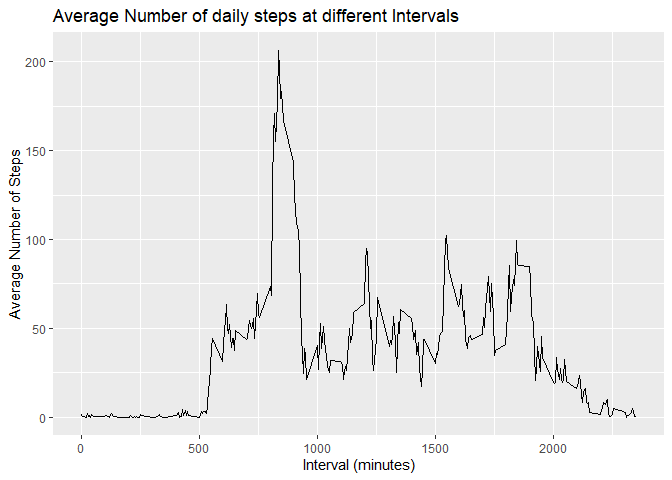
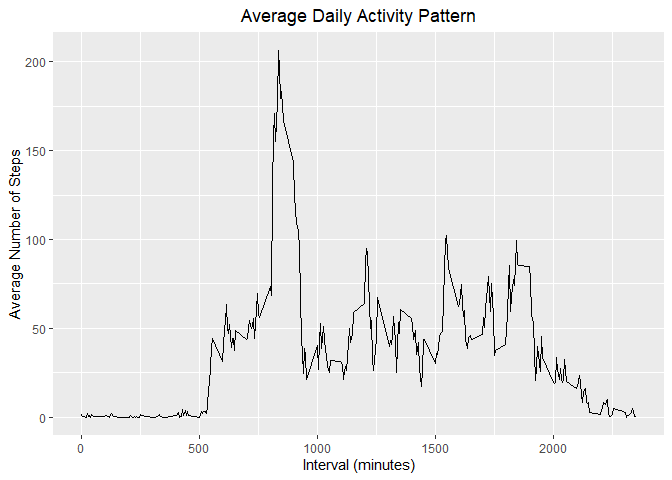
Finished Project

Changed region(s): [[0.0625, 0.0, 0.7188, 0.0625]]

diff --git a/PA1_template.html b/PA1_template.html
@@ -420,10 +420,11 @@ head(meanStepsInterval)</code></pre>
 library(&quot;ggplot2&quot;)
 ggplot(data = meanStepsInterval, aes(x = interval, y = steps)) +
         geom_line() +
-        ggtitle(&quot;Average Number of daily steps at different Intervals&quot;) +
+        ggtitle(&quot;Average Daily Activity Pattern&quot;) +
+        theme(plot.title = element_text(hjust = 0.5)) +
         xlab(&quot;Interval (minutes)&quot;) + 
         ylab(&quot;Average Number of Steps&quot;)</code></pre>
[2 lines of base64/hex data omitted]
 <pre class="r"><code>max_interval &lt;- meanStepsInterval[which.max(meanStepsInterval$steps),]
 max_interval</code></pre>
 <pre><code>##     interval    steps
@@ -437,12 +438,93 @@ max_interval</code></pre>
 <pre class="r"><code># 1- Total Number of Missing values
 sum(is.na(activity))</code></pre>
 <pre><code>## [1] 2304</code></pre>
+<div id="total-number-of-rows-with-nas-2304-rows" class="section level5">
+<h5>Total Number of Rows with NAs = <strong>2304 rows</strong></h5>
+<pre class="r"><code># 2- Filling Missing Values with mean steps in each interval
+# 3- Create a new dataset with filled NA values
+newData &lt;- activity
+for(row in 1: nrow(activity)) {
+        if(is.na(newData[row, 1])==TRUE) {
+                newData[row, 1] &lt;- meanStepsInterval[meanStepsInterval$interval %in%                                              newData[row, 3], 2]
+        }
+}
+
+head(newData)</code></pre>
+<pre><code>##       steps       date interval
+## 1 1.7169811 2012-10-01        0
+## 2 0.3396226 2012-10-01        5
+## 3 0.1320755 2012-10-01       10
+## 4 0.1509434 2012-10-01       15
+## 5 0.0754717 2012-10-01       20
+## 6 2.0943396 2012-10-01       25</code></pre>
+<pre class="r"><code># 4- Histogram Plot
+totalSteps &lt;- aggregate(steps ~ date, newData, sum)
+head(totalSteps)</code></pre>
+<pre><code>##         date    steps
+## 1 2012-10-01 10766.19
+## 2 2012-10-02   126.00
+## 3 2012-10-03 11352.00
+## 4 2012-10-04 12116.00
+## 5 2012-10-05 13294.00
+## 6 2012-10-06 15420.00</code></pre>
+<pre class="r"><code># Histogram Plot 
+hist(totalSteps$steps, col = &#39;Blue&#39;, 
+     main=&quot;Total number of steps per day&quot;, 
+     xlab=&quot;Number of Steps&quot;)</code></pre>
[1 lines of base64/hex data omitted]
+<pre class="r"><code># Mean - Median # of steps
+meanSteps &lt;- mean(totalSteps$steps)
+medianSteps &lt;- median(totalSteps$steps)
+cat(&quot;Mean Daily Steps: &quot;, meanSteps, &quot;Steps&quot;)</code></pre>
+<pre><code>## Mean Daily Steps:  10766.19 Steps</code></pre>
+<pre class="r"><code>cat(&quot;Median Daily Steps: &quot;,medianSteps, &quot;Steps&quot;)</code></pre>
+<pre><code>## Median Daily Steps:  10766.19 Steps</code></pre>
+</div>
+<div id="comparison-between-data-before-imputation-vs-after-imputation" class="section level3">
+<h3>Comparison Between Data [ Before Imputation Vs After Imputation ]</h3>
+<pre class="r"><code>par(mfrow = c(1,2))
+
+# Histogram Plot 1
+hist(Steps$total_Steps, col = &#39;red&#39;, 
+     main=&quot;(Before Imputation)&quot;, 
+     xlab=&quot;Number of Steps&quot;)
+
+# Histogram Plot 2
+hist(totalSteps$steps, col = &#39;Blue&#39;, 
+     main=&quot;(After Imputation)&quot;, 
+     xlab=&quot;Number of Steps&quot;)</code></pre>
[1 lines of base64/hex data omitted]
 <ul>
-<li>Number of missing rows = <strong>2304 rows</strong></li>
+<li><p><strong>Q1: Do these values differ from the estimates from the first part of the assignment?</strong><br />
+–&gt; We can see that the <strong>frequency</strong> of values near to the mean number of daily steps has <strong>increased</strong> because we’ve imputed the missing values with <strong>mean</strong> of each interval.</p></li>
+<li><p><strong>Q2: What is the impact of imputing missing data on the estimates of the total daily number of steps?</strong><br />
+–&gt; After imputing missing data, the total number of steps in each day has slightly <strong>increased</strong> because at some days there were a lot of <strong>NA’s</strong>; but now We’ve replaced them with the <strong>(Mean # of steps within the time interval)</strong> that will be added to the total number of daily steps.</p></li>
 </ul>
+</div>
 </div>
 <div id="are-there-differences-in-activity-patterns-between-weekdays-and-weekends" class="section level2">
 <h2>Are there differences in activity patterns between weekdays and weekends?</h2>
+<pre class="r"><code>weekdays &lt;- c(&quot;Monday&quot;, &quot;Tuesday&quot;, &quot;Wednesday&quot;, &quot;Thursday&quot;, 
+              &quot;Friday&quot; )
+newData$Day = as.factor(ifelse(is.element(weekdays(as.Date(newData$date)),weekdays), &quot;Weekday&quot;, &quot;Weekend&quot;))
+Final &lt;- aggregate(steps ~ interval + Day, newData, mean)
+head(Final)</code></pre>
+<pre><code>##   interval     Day      steps
+## 1        0 Weekday 2.25115304
+## 2        5 Weekday 0.44528302
+## 3       10 Weekday 0.17316562
+## 4       15 Weekday 0.19790356
+## 5       20 Weekday 0.09895178
+## 6       25 Weekday 1.59035639</code></pre>
+<pre class="r"><code>library(&quot;ggplot2&quot;)
+ggplot(Final, aes(interval, steps)) +
+        geom_line(col = &#39;brown&#39;) + 
+        facet_grid(.~Day) + 
+        xlab(&quot;Interval (minutes)&quot;) +
+        ylab(&quot;Number of Steps&quot;) + 
+        ggtitle(&quot;Average Number Of Daily Steps At Different Intervals&quot;)+
+        theme(plot.title = element_text(hjust = 0.5))</code></pre>
[1 lines of base64/hex data omitted]
 </div>
 
 

diff --git a/PA1_template.md b/PA1_template.md
@@ -88,7 +88,8 @@ head(meanStepsInterval)
 library("ggplot2")
 ggplot(data = meanStepsInterval, aes(x = interval, y = steps)) +
         geom_line() +
-        ggtitle("Average Number of daily steps at different Intervals") +
+        ggtitle("Average Daily Activity Pattern") +
+        theme(plot.title = element_text(hjust = 0.5)) +
         xlab("Interval (minutes)") + 
         ylab("Average Number of Steps")
 ```
@@ -118,7 +119,130 @@ sum(is.na(activity))
 ```
 ## [1] 2304
 ```
-* Number of missing rows = **2304 rows**
+##### Total Number of Rows with NAs = **2304 rows**
 
+
+```r
+# 2- Filling Missing Values with mean steps in each interval
+# 3- Create a new dataset with filled NA values
+newData <- activity
+for(row in 1: nrow(activity)) {
+        if(is.na(newData[row, 1])==TRUE) {
+                newData[row, 1] <- meanStepsInterval[meanStepsInterval$interval %in%                                              newData[row, 3], 2]
+        }
+}
+
+head(newData)
+```
+
+```
+##       steps       date interval
+## 1 1.7169811 2012-10-01        0
+## 2 0.3396226 2012-10-01        5
+## 3 0.1320755 2012-10-01       10
+## 4 0.1509434 2012-10-01       15
+## 5 0.0754717 2012-10-01       20
+## 6 2.0943396 2012-10-01       25
+```
+
+
+```r
+# 4- Histogram Plot
+totalSteps <- aggregate(steps ~ date, newData, sum)
+head(totalSteps)
+```
+
+```
+##         date    steps
+## 1 2012-10-01 10766.19
+## 2 2012-10-02   126.00
+## 3 2012-10-03 11352.00
+## 4 2012-10-04 12116.00
+## 5 2012-10-05 13294.00
+## 6 2012-10-06 15420.00
+```
+
+```r
+# Histogram Plot 
+hist(totalSteps$steps, col = 'Blue', 
+     main="Total number of steps per day", 
+     xlab="Number of Steps")
+```
+
+![](PA1_template_files/figure-html/unnamed-chunk-6-1.png)<!-- -->
+
+```r
+# Mean - Median # of steps
+meanSteps <- mean(totalSteps$steps)
+medianSteps <- median(totalSteps$steps)
+cat("Mean Daily Steps: ", meanSteps, "Steps")
+```
+
+```
+## Mean Daily Steps:  10766.19 Steps
+```
+
+```r
+cat("Median Daily Steps: ",medianSteps, "Steps")
+```
+
+```
+## Median Daily Steps:  10766.19 Steps
+```
+
+### Comparison Between Data [ Before Imputation Vs After Imputation ]
+
+```r
+par(mfrow = c(1,2))
+
+# Histogram Plot 1
+hist(Steps$total_Steps, col = 'red', 
+     main="(Before Imputation)", 
+     xlab="Number of Steps")
+
+# Histogram Plot 2
+hist(totalSteps$steps, col = 'Blue', 
+     main="(After Imputation)", 
+     xlab="Number of Steps")
+```
+
+![](PA1_template_files/figure-html/unnamed-chunk-7-1.png)<!-- -->
+
+* **Q1: Do these values differ from the estimates from the first part of the assignment?**  
+--> We can see that the **frequency** of values near to the mean number of daily steps has **increased** because we've imputed the missing values with **mean** of each interval.
+
+* **Q2: What is the impact of imputing missing data on the estimates of the total daily number of steps?**  
+--> After imputing missing data, the total number of steps in each day has slightly **increased** because at some days there were a lot of **NA's**; but now We've replaced them with the **(Mean # of steps within the time interval)** that will be added to the total number of daily steps.
 
 ## Are there differences in activity patterns between weekdays and weekends?
+
+```r
+weekdays <- c("Monday", "Tuesday", "Wednesday", "Thursday", 
+              "Friday" )
+newData$Day = as.factor(ifelse(is.element(weekdays(as.Date(newData$date)),weekdays), "Weekday", "Weekend"))
+Final <- aggregate(steps ~ interval + Day, newData, mean)
+head(Final)
+```
+
+```
+##   interval     Day      steps
+## 1        0 Weekday 2.25115304
+## 2        5 Weekday 0.44528302
+## 3       10 Weekday 0.17316562
+## 4       15 Weekday 0.19790356
+## 5       20 Weekday 0.09895178
+## 6       25 Weekday 1.59035639
+```
+
+```r
+library("ggplot2")
+ggplot(Final, aes(interval, steps)) +
+        geom_line(col = 'brown') + 
+        facet_grid(.~Day) + 
+        xlab("Interval (minutes)") +
+        ylab("Number of Steps") + 
+        ggtitle("Average Number Of Daily Steps At Different Intervals")+
+        theme(plot.title = element_text(hjust = 0.5))
+```
+
+![](PA1_template_files/figure-html/unnamed-chunk-8-1.png)<!-- -->
